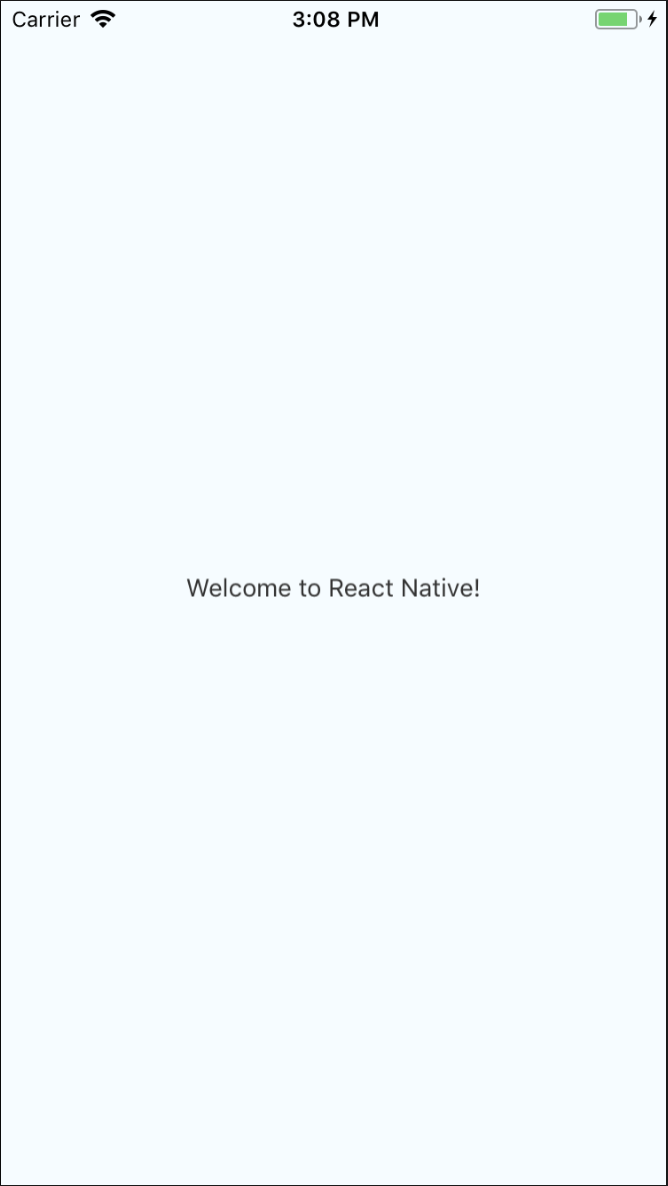
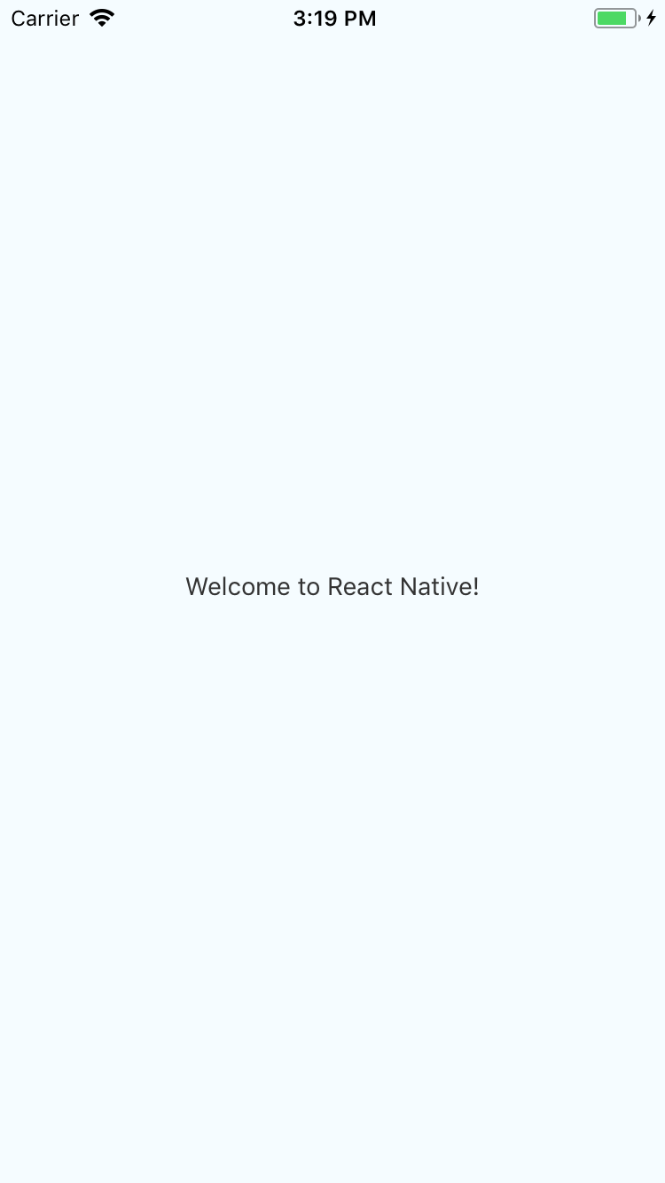
fixed image size

diff --git a/README.md b/README.md
@@ -145,7 +145,7 @@ export default class App extends Component<Props> {
 }
 ```
 
-![](./images/IMG006.png =250x) 
+<img src="./images/IMG006.png" width="350"> 
 
 
 
